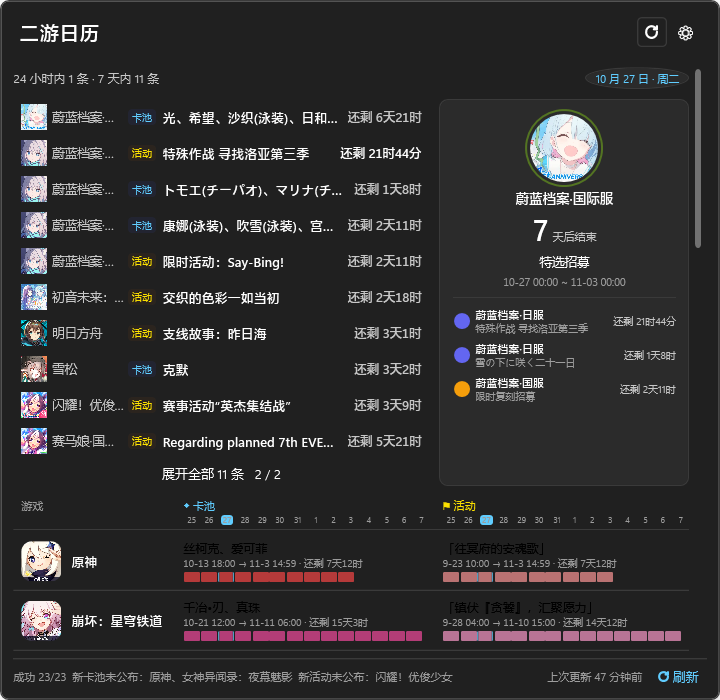
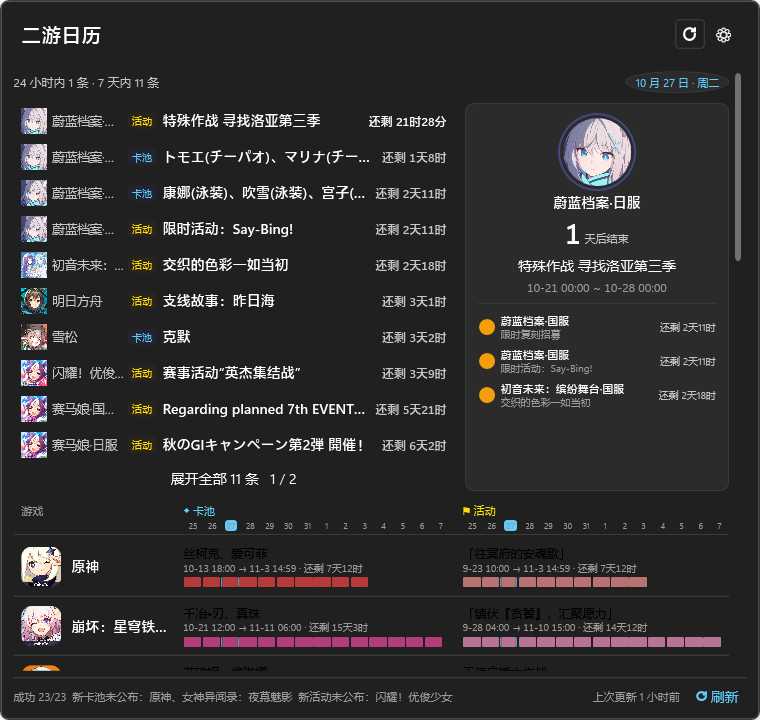
style: v0.1.29 按 Windows 字号阶梯重排
- 正文 14/行高 20、caption 12；面板 760x720、表格行距 40
- 保留六列结构，不新增入口；日程/设置同步字号
- 更新截图与 README 预览；版本 0.1.29

验证：dotnet build 0 警告 0 错误；node --check 通过；npm test 34/34；npm run check 通过

diff --git a/src/GachaCalendar/Views/FlyoutWindow.xaml b/src/GachaCalendar/Views/FlyoutWindow.xaml
@@ -1,10 +1,10 @@
-<Window x:Class="GachaCalendar.Views.FlyoutWindow"
+<Window x:Class="GachaCalendar.Views.FlyoutWindow"
 		xmlns="http://schemas.microsoft.com/winfx/2006/xaml/presentation"
 		xmlns:x="http://schemas.microsoft.com/winfx/2006/xaml"
 		xmlns:controls="clr-namespace:GachaCalendar.Controls"
 		xmlns:views="clr-namespace:GachaCalendar.Views"
 		Title="二游日历"
-		Width="720" Height="680"
+		Width="760" Height="720"
 		WindowStyle="None"
 		AllowsTransparency="True"
 		Background="Transparent"
@@ -51,7 +51,7 @@
 		</Style>
 
 		<Style x:Key="DshCellText" TargetType="TextBlock">
-			<Setter Property="FontSize" Value="13" />
+			<Setter Property="FontSize" Value="14" />
 			<Setter Property="VerticalAlignment" Value="Center" />
 			<Setter Property="TextAlignment" Value="Left" />
 			<Setter Property="TextTrimming" Value="CharacterEllipsis" />
@@ -59,7 +59,7 @@
 		</Style>
 
 		<Style x:Key="DshHeaderText" TargetType="TextBlock">
-			<Setter Property="FontSize" Value="12.5" />
+			<Setter Property="FontSize" Value="12" />
 			<Setter Property="FontWeight" Value="SemiBold" />
 			<Setter Property="Foreground" Value="{DynamicResource FgDim}" />
 			<Setter Property="TextAlignment" Value="Left" />
@@ -136,7 +136,7 @@
 				<RowDefinition Height="*" />
 			</Grid.RowDefinitions>
 				<!-- 标题 + 操作 -->
-				<Grid Grid.Row="0" Margin="18,16,18,8">
+				<Grid Grid.Row="0" Margin="20,18,20,10">
 					<Grid.ColumnDefinitions>
 						<ColumnDefinition Width="*" />
 						<ColumnDefinition Width="Auto" />
@@ -162,7 +162,7 @@
 				</Grid>
 
 <ScrollViewer x:Name="TableScroll" Grid.Row="1" Style="{StaticResource DshScrollViewer}" VerticalScrollBarVisibility="Auto" HorizontalScrollBarVisibility="Disabled" Padding="0">
-				<StackPanel Margin="18,0,18,12">
+				<StackPanel Margin="20,0,20,14">
 				<!-- 数据状态 / 刷新时间 / 抓取提示 -->
 				<Grid Margin="0,0,0,8">
 					<Grid.ColumnDefinitions>
@@ -182,11 +182,11 @@
 				<Grid Margin="0,0,0,2">
 					<Grid.ColumnDefinitions>
 						<ColumnDefinition Width="22" />
-						<ColumnDefinition Width="96" />
+						<ColumnDefinition Width="104" />
 						<ColumnDefinition Width="*" />
-						<ColumnDefinition Width="150" />
+						<ColumnDefinition Width="160" />
 						<ColumnDefinition Width="1.3*" />
-						<ColumnDefinition Width="150" />
+						<ColumnDefinition Width="160" />
 					</Grid.ColumnDefinitions>
 					<TextBlock Grid.Column="1" Text="游戏" Style="{StaticResource DshHeaderText}" />
 					<TextBlock Grid.Column="2" Text="当前卡池" Style="{StaticResource DshHeaderText}" />
@@ -199,7 +199,7 @@
 				<ItemsControl ItemsSource="{Binding Rows}">
 					<ItemsControl.ItemTemplate>
 						<DataTemplate>
-							<Border BorderBrush="{DynamicResource Divider}" BorderThickness="0,0,0,1" Padding="0,9">
+							<Border BorderBrush="{DynamicResource Divider}" BorderThickness="0,0,0,1" Padding="0,10">
 								<Border.Style>
 									<Style TargetType="Border">
 										<Style.Triggers>
@@ -212,11 +212,11 @@
 								<Grid>
 									<Grid.ColumnDefinitions>
 										<ColumnDefinition Width="22" />
-										<ColumnDefinition Width="96" />
+										<ColumnDefinition Width="104" />
 										<ColumnDefinition Width="*" />
-										<ColumnDefinition Width="150" />
+										<ColumnDefinition Width="160" />
 										<ColumnDefinition Width="1.3*" />
-										<ColumnDefinition Width="150" />
+										<ColumnDefinition Width="160" />
 									</Grid.ColumnDefinitions>
 
 									<!-- 图标：外链加载失败时退化为首字方块（与 DSH 同一策略） -->
@@ -253,7 +253,7 @@
 									</Grid>
 
 									<Border Grid.Column="1" Margin="3,0" ClipToBounds="True">
-										<TextBlock Text="{Binding Name}" Style="{StaticResource DshCellText}" FontSize="13.5" FontWeight="SemiBold"
+										<TextBlock Text="{Binding Name}" Style="{StaticResource DshCellText}" FontSize="14" FontWeight="SemiBold"
 												   ToolTip="{Binding Name}" controls:Marquee.Enabled="True" />
 									</Border>
 

diff --git a/src/GachaCalendar/Views/ScheduleView.xaml b/src/GachaCalendar/Views/ScheduleView.xaml
@@ -1,4 +1,4 @@
-<UserControl x:Class="GachaCalendar.Views.ScheduleView"
+<UserControl x:Class="GachaCalendar.Views.ScheduleView"
 			 xmlns="http://schemas.microsoft.com/winfx/2006/xaml/presentation"
 			 xmlns:x="http://schemas.microsoft.com/winfx/2006/xaml"
 			 UseLayoutRounding="True"
@@ -216,10 +216,10 @@
 													</TextBlock>
 												</Grid>
 											</Border>
-											<TextBlock Grid.Column="3" Text="{Binding Show}" FontSize="13" FontWeight="SemiBold"
+											<TextBlock Grid.Column="3" Text="{Binding Show}" FontSize="14" FontWeight="SemiBold"
 													   VerticalAlignment="Center" Margin="3,0" TextTrimming="CharacterEllipsis"
 													   ToolTip="{Binding Tip}" />
-											<TextBlock Grid.Column="4" Text="{Binding WhenText}" FontSize="12.5" FontWeight="SemiBold"
+											<TextBlock Grid.Column="4" Text="{Binding WhenText}" FontSize="12" FontWeight="SemiBold"
 													   VerticalAlignment="Center" Margin="6,0,0,0" Typography.NumeralAlignment="Tabular">
 												<TextBlock.Style>
 													<Style TargetType="TextBlock">
@@ -292,16 +292,16 @@
 									</Image.Clip>
 								</Image>
 							</Grid>
-							<TextBlock Text="{Binding FocusGameName}" FontSize="13.5" FontWeight="SemiBold" HorizontalAlignment="Center"
+							<TextBlock Text="{Binding FocusGameName}" FontSize="14" FontWeight="SemiBold" HorizontalAlignment="Center"
 									   Margin="0,7,0,0" TextTrimming="CharacterEllipsis" />
 							<StackPanel Orientation="Horizontal" HorizontalAlignment="Center" Margin="0,2,0,0">
-								<TextBlock Text="{Binding Focus.FocusNumber}" FontSize="30" FontWeight="SemiBold" Typography.NumeralAlignment="Tabular" />
+								<TextBlock Text="{Binding Focus.FocusNumber}" FontSize="28" FontWeight="SemiBold" Typography.NumeralAlignment="Tabular" />
 								<TextBlock Text="{Binding Focus.FocusUnit}" FontSize="11" Foreground="{DynamicResource FgDim}"
 										   VerticalAlignment="Bottom" Margin="4,0,0,5" />
 							</StackPanel>
-							<TextBlock Text="{Binding FocusTitle}" FontSize="12.5" TextAlignment="Center" TextWrapping="Wrap"
+							<TextBlock Text="{Binding FocusTitle}" FontSize="14" TextAlignment="Center" TextWrapping="Wrap"
 									   Margin="0,5,0,0" MaxHeight="36" />
-							<TextBlock Text="{Binding FocusDates}" FontSize="10.5" Foreground="{DynamicResource FgFaint}"
+							<TextBlock Text="{Binding FocusDates}" FontSize="12" Foreground="{DynamicResource FgFaint}"
 									   TextAlignment="Center" TextWrapping="Wrap" Margin="0,4,0,0" Typography.NumeralAlignment="Tabular" />
 							<Separator Margin="0,8,0,6" Background="{DynamicResource Divider}" />
 							<ItemsControl ItemsSource="{Binding FocusOthers}">
@@ -469,7 +469,7 @@
 												</Image.Clip>
 											</Image>
 										</Grid>
-										<TextBlock Text="{Binding Name}" FontSize="13" FontWeight="SemiBold" VerticalAlignment="Center"
+										<TextBlock Text="{Binding Name}" FontSize="14" FontWeight="SemiBold" VerticalAlignment="Center"
 												   Margin="10,0,0,0" TextTrimming="CharacterEllipsis" MaxWidth="96" />
 									</StackPanel>
 

diff --git a/src/GachaCalendar/App.xaml b/src/GachaCalendar/App.xaml
@@ -24,7 +24,7 @@
 			<Style TargetType="TextBlock">
 				<Setter Property="FontFamily" Value="{StaticResource UiFont}" />
 				<Setter Property="Foreground" Value="{DynamicResource Fg}" />
-				<Setter Property="FontSize" Value="13" />
+				<Setter Property="FontSize" Value="14" />
 				<Setter Property="TextOptions.TextFormattingMode" Value="Ideal" />
 			</Style>
 

diff --git a/src/GachaCalendar/Views/FlyoutWindow.xaml.cs b/src/GachaCalendar/Views/FlyoutWindow.xaml.cs
@@ -81,7 +81,7 @@ public partial class FlyoutWindow : Window
 
 	public void ShowNearDock(Window dock)
 	{
-		Height = Math.Min(700, Math.Max(360, SystemParameters.WorkArea.Height * 0.74));
+		Height = Math.Min(720, Math.Max(360, SystemParameters.WorkArea.Height * 0.76));
 		Opacity = 0;
 		Show();
 		Activate();

diff --git a/README.md b/README.md
@@ -16,22 +16,22 @@
 > 解析器只维护一处，桌面端不重复实现抓取。
 
 <p align="center">
-  <img src="docs/images/preview.png?v=0.1.28" alt="任务栏轮播条与 Fluent 面板" width="100%" />
+  <img src="docs/images/preview.png?v=0.1.29" alt="任务栏轮播条与 Fluent 面板" width="100%" />
 </p>
 
 <p align="center">
-  <img src="docs/images/flyout.png?v=0.1.28" alt="Fluent 总览面板" width="47%" />
+  <img src="docs/images/flyout.png?v=0.1.29" alt="Fluent 总览面板" width="47%" />
   &nbsp;
-  <img src="docs/images/dock.png?v=0.1.28" alt="任务栏轮播胶囊" width="47%" />
+  <img src="docs/images/dock.png?v=0.1.29" alt="任务栏轮播胶囊" width="47%" />
 </p>
 
 <p align="center">
-  <img src="docs/images/settings.png?v=0.1.28" alt="Fluent 设置页" width="80%" />
+  <img src="docs/images/settings.png?v=0.1.29" alt="Fluent 设置页" width="80%" />
 </p>
 
 ## 当前状态
 
-**v0.1.28 预览版**：Windows 11 Fluent 面板 + 任务栏单行轮播条 + 托盘 + 设置 + 单实例 + 开机自启，
+**v0.1.29 预览版**：Windows 11 Fluent 面板 + 任务栏单行轮播条 + 托盘 + 设置 + 单实例 + 开机自启，
 应用内刷新已接通。外壳技术已拍板：**WPF**。
 
 | 能力 | 状态 |

diff --git a/docs/04-路线图.md b/docs/04-路线图.md
@@ -280,7 +280,14 @@ Fluent/DSH 风格外观已列入 [BACKLOG.md](../BACKLOG.md)。
 - [x] 日程条形降饱和、焦点卡改用 surface 底色
 - [x] 胶囊类型中性、剩余时间统一 accent 蓝；设置去掉强调外框
 
-## v0.1.29 · 分发工程化
+## v0.1.29 · 字号阶梯修正（2026-10-27）
+
+- [x] 正文 14/行高 20、caption 12，面板 760×720
+- [x] 六列表格行距加大，保留原结构
+- [x] 日程/设置同步字号，不增加入口
+- [ ] 继续做信息层级与留白，不再堆控件
+
+## v0.1.30 · 分发工程化
 
 - [ ] `publish` 脚本：自包含 single-file zip + 框架依赖 zip
 - [ ] 安装包（Inno Setup 或 MSIX）：开始菜单、卸载清理自启项
@@ -289,7 +296,7 @@ Fluent/DSH 风格外观已列入 [BACKLOG.md](../BACKLOG.md)。
 - [ ] 性能预算：空闲内存 ≤ 120MB、CPU ≤ 0.1%、启动 ≤ 2s
 - [ ] 首次运行引导：数据从哪来、如何刷新、如何关掉原生小组件避免重叠
 
-## v0.1.30 · 商店与打磨
+## v0.1.31 · 商店与打磨
 
 - [ ] 代码签名（SmartScreen）
 - [ ] Microsoft Store / MSIX 上架评估

diff --git a/CHANGELOG.md b/CHANGELOG.md
@@ -1,5 +1,13 @@
 # CHANGELOG
 
+## v0.1.29 · 2026-10-27
+
+- 按 Windows 官方 type ramp 修正字号：正文 14/行高 20、caption 12；
+  面板 760×720，表格行距加大到 40px
+- 保留六列总览结构，不新增按钮/入口
+- 日程视图同步正文/说明字号；设置页随全局 14px 正文调整
+- 版本 0.1.29
+
 ## v0.1.28 · 2026-10-27
 
 - **撤下**面板顶部「总览 / 日程」切换按钮（按反馈，不再额外塞入口）；
